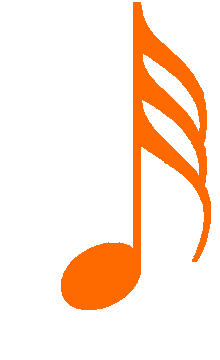
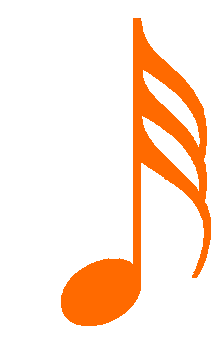
náhodný text

Changed region(s): [[0.6, 0.0, 0.9818, 0.7944], [0.2727, 0.6722, 0.6545, 0.9167]]

diff --git a/newproject.html b/newproject.html
@@ -53,9 +53,9 @@
         <div class="tool" h="38" x="50" y="-19" posuvka="-10" value="0"><img src="images/celaNota.png"></div>
         <div class="tool" h="38" x="50" y="-19" posuvka="-10" value="1"><img src="images/pulovaNota.png"></div>
         <div class="tool" h="38" x="50" y="-19" posuvka="-10" value="2"><img src="images/ctvrtovaNota.png"></div>
-        <div class="tool" h="38" x="50" y="-18" posuvka="-10" value="3"><img src="images/osminkaNota.png"></div>
-        <div class="tool" h="38" x="49" y="-18" posuvka="-10" value="4"><img src="images/sestnatinkaNota.png"></div>
-        <div class="tool" h="38" x="49" y="-18" posuvka="-10" value="5"><img src="images/tricetidvatinkaNota.png"></div>
+        <div class="tool" h="38" x="50" y="-19" posuvka="-10" value="3"><img src="images/osminkaNota.png"></div>
+        <div class="tool" h="38" x="49" y="-19" posuvka="-10" value="4"><img src="images/sestnatinkaNota.png"></div>
+        <div class="tool" h="38" x="49" y="-19" posuvka="-10" value="5"><img src="images/tricetidvatinkaNota.png"></div>
         <div class="tool" h="35" x="58" y="-8" posuvka="0" value="7"><img src="images/celaPomlka.png"></div>
         <div class="tool" h="35" x="58" y="-8" posuvka="0" value="8"><img src="images/pulovaPomlka.png"></div>
         <div class="tool" h="35" x="50" y="-8" posuvka="0" value="9"><img src="images/ctvrtovaPomlka.png"></div>
@@ -215,7 +215,7 @@
                 if(this.getAttribute("x")&&selectedTool<7){
                     let container = document.createElement("div");
                     if(this.getAttribute("x")<0){
-                        container.style.bottom=+this.getAttribute("y")+ +selectedPosuvka+"px";
+                        container.style.bottom=+this.getAttribute("y")+ +selectedPosuvka+ -1+"px";
                         container.style.position="absolute";
                         container.classList.add("helpLine");
                         for(let i=0;i<Math.abs(this.getAttribute("x"));i++){
@@ -230,7 +230,7 @@
                         }
                         divimg.appendChild(container);
                     }else if(this.getAttribute("x")>0){
-                        container.style.top=+this.getAttribute("y")+ -selectedPosuvka+"px";                        
+                        container.style.top=+this.getAttribute("y")+ -selectedPosuvka+ +1+"px";                        
                         container.style.position="absolute";
                         container.classList.add("helpLine");
                         for(let i=0;i<Math.abs(this.getAttribute("x"));i++){
@@ -271,33 +271,39 @@
                         if(movingNote.getElementsByClassName("helpLine")[0]){
                             movingNote.getElementsByClassName("helpLine")[0].remove();
                         }
-                        console.log(movingNote.getElementsByClassName("znamenko")[0]);
                         if(movingNote.getElementsByClassName("znamenko")[0]){
                             znakImg = movingNote.getElementsByClassName("znamenko")[0];
-                            if(this.getAttribute("middle")){
-                                if(this.getAttribute("o")){
-                                    console.log("1")
-                                    znakImg.style.top=+movingNote.getAttribute("top")+ -5+"px";
+                            let j =znakImg.getAttribute("znak");
+                            if(j=="akcent1"){
+                                if(this.getAttribute("l")){
+                                    console.log("random hodnota"+movingNote.getAttribute("top"));
+                                    znakImg.style.top=this.getAttribute("o")?
+                                    -5*this.getAttribute("l")+ +8+"px":
+                                    +5*this.getAttribute("l")+ +32+"px";
+                                    console.log(this.getAttribute("o")?1:2)
                                 }else{
-                                    console.log("2")
-                                    znakImg.style.top=+movingNote.getAttribute("top")+ +22+"px";
+                                    znakImg.style.top=movingNote.getAttribute("o")?"3px":"27px";
+                                    console.log(this.getAttribute("o")?3:4)
                                 }
                             }
-                            else{
-                                if(this.getAttribute("o")){
-                                    console.log("3")
-                                    znakImg.style.top=+movingNote.getAttribute("top")+ -3+"px";
-                                }else{
-                                    console.log("4")
-                                    znakImg.style.top=+movingNote.getAttribute("top")+ +18+"px";
+                            else if(j=="tenuto"){
+                                if(this.getAttribute("middle")){
+                                    znakImg.style.top=this.getAttribute("o")?"-5px":"22px";
+                                }
+                                else{
+                                    znakImg.style.top=this.getAttribute("o")?"-1px":"18px";
                                 }
                             }
+                            else if(j=="prodluzovak"){
+                                
+                            }
+                            
                         }
                         if(this.getAttribute("x")){
                             let container = document.createElement("div");
                             
                             if(this.getAttribute("x")<0){
-                                container.style.bottom=+this.getAttribute("y")+ +movingNote.getAttribute("posuvka")+"px";
+                                container.style.bottom=+this.getAttribute("y")+ +movingNote.getAttribute("posuvka")+ -1+"px";
                                 container.style.position="absolute";
                                 container.classList.add("helpLine");
                                 for(let i=0;i<Math.abs(this.getAttribute("x"));i++){
@@ -313,7 +319,7 @@
                                 movingNote.appendChild(container);
                             }
                             else if(this.getAttribute("x")>0){
-                                container.style.top=+this.getAttribute("y")+ -movingNote.getAttribute("posuvka")+"px";                        
+                                container.style.top=+this.getAttribute("y")+ -movingNote.getAttribute("posuvka")+ +1+"px";                        
                                 container.style.position="absolute";
                                 container.classList.add("helpLine");
                                 for(let i=0;i<Math.abs(this.getAttribute("x"));i++){
@@ -418,65 +424,77 @@
             }
             znakImg = document.createElement("img");
             znakImg.classList.add("znamenko");
-            znakImg.setAttribute("top",this.getAttribute("top"))
+            znakImg.setAttribute("top",this.getAttribute("top"));
             znakImg.src=this.src;
+            znakImg.style.position="absolute";
+            znakImg.setAttribute("znak",this.getAttribute("znak"));
+
             let k=this.parentElement.parentElement.getAttribute("value")
-            if(this.parentElement.parentElement.parentElement.parentElement.getAttribute("o")){
-                if(k==0){
-                    znakImg.style.left="1px";
-                }else if(k==1||k==2){
-                    znakImg.style.left="-1px";
-                }else if(k==3||k==4){
-                    znakImg.style.left="2px";
-                }else{
-                    znakImg.style.left="1px";
-                }
-            }else{
-                if(k==0){
-                    znakImg.style.left="0px";
-                }else if(k==1||k==2){
-                    znakImg.style.left="-2px";
-                }else if(k==3||k==4){
-                    znakImg.style.left="3px";
-                }else{
-                    znakImg.style.left="1px";
-                }
-            }
             let j=this.getAttribute("znak");
             if(j=="akcent1"){
                 if(this.parentElement.parentElement.parentElement.parentElement.getAttribute("l")){
-                    if(this.parentElement.parentElement.parentElement.parentElement.getAttribute("o")){
-                        znakImg.style.top=-this.getAttribute("top")*this.parentElement.parentElement.parentElement.parentElement.getAttribute("l")+ +8+"px";
-                    }else{
-                        znakImg.style.top=+this.getAttribute("top")*this.parentElement.parentElement.parentElement.parentElement.getAttribute("l")+ +22+"px";
-                    }
+                    znakImg.style.top=this.parentElement.parentElement.parentElement.parentElement.getAttribute("o")?
+                    -5*this.parentElement.parentElement.parentElement.parentElement.getAttribute("l")+ +8+"px":
+                    +5*this.parentElement.parentElement.parentElement.parentElement.getAttribute("l")+ +22+"px";
                 }else{
-                    if(this.parentElement.parentElement.parentElement.parentElement.getAttribute("o")){
-                        znakImg.style.top="3px";
-                    }else{
-                        znakImg.style.top="27px";
-                    }
+                    znakImg.style.top=this.parentElement.parentElement.parentElement.parentElement.getAttribute("o")?"3px":"27px";
                 }
-            }else if(j=="tenuto"){
-            if(this.parentElement.parentElement.parentElement.parentElement.getAttribute("middle")){
                 if(this.parentElement.parentElement.parentElement.parentElement.getAttribute("o")){
-                    znakImg.style.top=+this.getAttribute("top")+ -20+"px";
-                }else{
-                    znakImg.style.top=+this.getAttribute("top")+ +8+"px";
+                    znakImg.style.left= 
+                    k==0?"1px":
+                    k==1||k==2?"-1px":
+                    k==3||k==4?"2px":
+                    "1px";
                 }
-            }else{
-                if(this.parentElement.parentElement.parentElement.parentElement.getAttribute("o")){
-                    znakImg.style.top=+this.getAttribute("top")+ -16+"px";
-                }else{
-                    znakImg.style.top=+this.getAttribute("top")+ +3+"px";
+                else{
+                    znakImg.style.left= 
+                    k==0?"0px":
+                    k==1||k==2?"-2px":
+                    k==3||k==4?"3px":
+                    "1px";
                 }
             }
+            else if(j=="tenuto"){
+                if(this.parentElement.parentElement.parentElement.parentElement.getAttribute("middle")){
+                    znakImg.style.top=this.parentElement.parentElement.parentElement.parentElement.getAttribute("o")?"-5px":"17px";
+                }else{
+                    znakImg.style.top=this.parentElement.parentElement.parentElement.parentElement.getAttribute("o")?"-1px":"18px";
+                }
+                if(this.parentElement.parentElement.parentElement.parentElement.getAttribute("o")){
+                    znakImg.style.left= 
+                    k==0?"1px":
+                    k==1||k==2?"-1px":
+                    k==3||k==4?"2px":
+                    "1px";
+                }
+                else{
+                    znakImg.style.left= 
+                    k==0?"0px":
+                    k==1||k==2?"-2px":
+                    k==3||k==4?"3px":
+                    "1px";
+                }
+            }
+            else if(j=="prodluzovak"){
+                if(this.parentElement.parentElement.parentElement.parentElement.getAttribute("o")){
+                    znakImg.style.left= 
+                    k==0?"1px":
+                    k==1||k==2?"-1px":
+                    k==3||k==4?"2px":
+                    "1px";
+                }
+                else{
+                    znakImg.style.left= 
+                    k==0?"0px":
+                    k==1||k==2?"-2px":
+                    k==3||k==4?"3px":
+                    "1px";
+                }
             }
             
-            znakImg.style.position="absolute";
             this.parentElement.parentElement.getElementsByClassName("cImg")[0].appendChild(znakImg);
         }
-        const znamenka=["krizek","becko","odrazka","akcent1","tenuto","krizekk"];
+        const znamenka=["krizek","becko","odrazka","akcent1","tenuto","prodluzovak","krizekk"];
 
         function showOptions(){
             if(selectedTool==50&&!(document.getElementsByClassName("options")[0])&&!(document.getElementsByClassName("t")[0])){
@@ -497,8 +515,8 @@
                     if(this.getAttribute("value")<7){
                         divOptions=document.createElement("div");
                         divOptions.classList.add("options");
-                        let b=[posuvka,posuvka,posuvka,znamenko,znamenko,notedelete];
-                        let top=[26,22,26,5,15,0];
+                        let b=[posuvka,posuvka,posuvka,znamenko,znamenko,znamenko,notedelete];
+                        let top=[26,22,26];
                         for(let i=0;i<znamenka.length;i++){
                             imgV=document.createElement("img");
                             imgV.src="images/"+znamenka[i]+".png";
